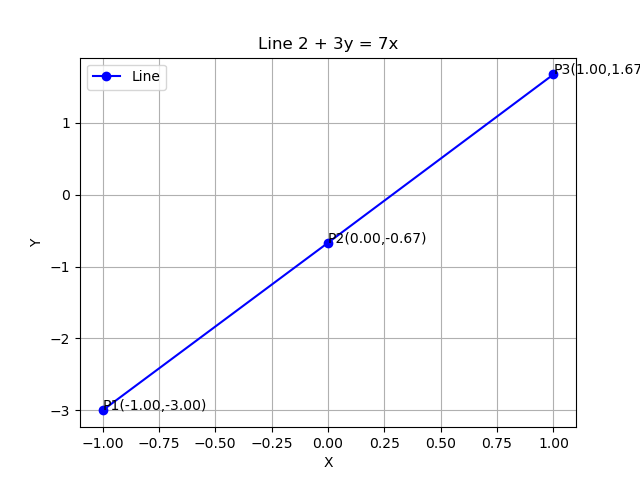
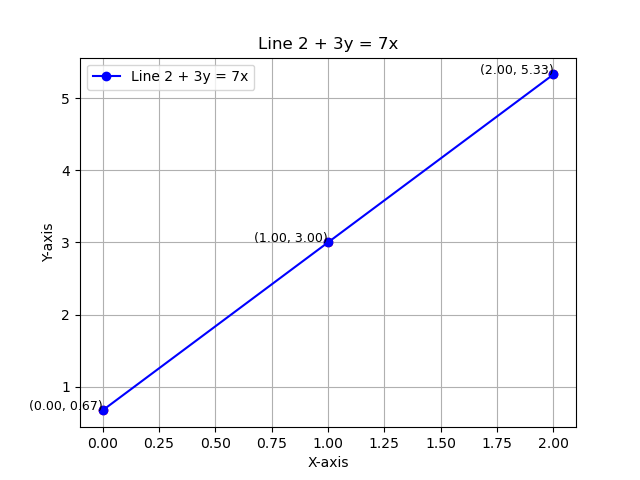
update

diff --git a/matgeo9/codes/main.c b/matgeo9/codes/main.c
@@ -1,62 +1,54 @@
 #include <stdio.h>
 
-// Function to find direction and normal vectors for the line
-void find_direction_and_normal_vector(double *direction, double *normal) {
-    // Line: 2 + 3y = 7x can be rearranged to 7x - 3y = -2
-    // General form: Ax + By + C = 0 -> A=7, B=-3
-    double A = 7;
-    double B = -3;
+// Function to generate three points lying on the line
+void generate_points(float slope, float intercept, FILE *file) {
+    float x_values[3] = {0, 1, 2}; // Three arbitrary x-values
+    float y_values[3];
     
-    // Direction vector (dx, dy) is perpendicular to the normal vector (A, B)
-    direction[0] = B;    // dx = -B
-    direction[1] = -A;   // dy = A
-    
-    // Normal vector (nx, ny) is (A, B)
-    normal[0] = A;
-    normal[1] = B;
+    for (int i = 0; i < 3; i++) {
+        y_values[i] = slope * x_values[i] + intercept; // Calculate corresponding y-values
+        fprintf(file, "%.2f, %.2f\n", x_values[i], y_values[i]);
+    }
 }
 
 int main() {
-    double direction[2], normal[2];
-    double points[3][2];
+    // The given equation is 2 + 3y = 7x
+    // Rearrange the equation to match the form Ax + By = C
+
+    // Coefficients A, B, and C for the line 7x - 3y = -2
+    float A = 7.0;
+    float B = -3.0;
+    float C = -2.0;
+
+    // Calculate slope and y-intercept based on A, B, C
+    float slope = -A / B; // Slope is -A/B
+    float intercept = C / B; // Y-intercept is C/B
     
-    // Rearranging the line equation to slope-intercept form: y = (7/3)x - (2/3)
-    double slope = 7.0 / 3.0;
-    double intercept = -2.0 / 3.0;
+    // Find direction vector (since slope is rise/run, direction vector is (run, rise))
+    float direction_vector[2] = {1, slope}; // For slope, direction vector can be (1, slope)
     
-    // Find direction and normal vectors
-    find_direction_and_normal_vector(direction, normal);
+    // Find normal vector (perpendicular to the direction vector)
+    float normal_vector[2] = {-slope, 1}; // Normal to (1, slope) is (-slope, 1)
     
-    // Print the direction and normal vectors
-    printf("Direction Vector: (%.2f, %.2f)\n", direction[0], direction[1]);
-    printf("Normal Vector: (%.2f, %.2f)\n", normal[0], normal[1]);
-    
-    // Generate 3 points using x values (-1, 0, 1) and y = slope * x + intercept
-    for (int i = 0; i < 3; i++) {
-        points[i][0] = i - 1;  // x values: -1, 0, 1
-        points[i][1] = slope * points[i][0] + intercept;  // y = mx + b
-    }
-    
-    // Save the points to coordinates.txt
+    // Display the vectors
+    printf("Direction Vector: (%.2f, %.2f)\n", direction_vector[0], direction_vector[1]);
+    printf("Normal Vector: (%.2f, %.2f)\n", normal_vector[0], normal_vector[1]);
+
+    // Open the file to save coordinates
     FILE *file = fopen("coordinates.txt", "w");
-    
-    // Check if the file is opened successfully
     if (file == NULL) {
-        perror("Error opening file");
+        printf("Error opening file!\n");
         return 1;
-    } else {
-        printf("File 'coordinates.txt' opened successfully.\n");
     }
     
-    // Print and write the points to the file
-    for (int i = 0; i < 3; i++) {
-        printf("Point %d: (%.2f, %.2f)\n", i + 1, points[i][0], points[i][1]);
-        fprintf(file, "Point %d: (%.2f, %.2f)\n", i + 1, points[i][0], points[i][1]);
-    }
-
+    // Generate and save three points on the line (only points are saved to the file)
+    generate_points(slope, intercept, file);
+    
+    // Close the file
     fclose(file);
-    printf("Points saved to 'coordinates.txt' successfully.\n");
-
+    
+    printf("Coordinates saved to coordinates.txt\n");
+    
     return 0;
 }
 

diff --git a/matgeo9/codes/vector.py b/matgeo9/codes/vector.py
@@ -1,0 +1,63 @@
+from ctypes import*
+import matplotlib.pyplot as plt
+
+# Load the shared object file (verify.so)
+verify = CDLL('./verify.so')
+
+# Define the argument types and return type for the `are_perpendicular` function
+verify.are_perpendicular.argtypes = (POINTER(c_float), POINTER(c_float), c_int)
+verify.are_perpendicular.restype = c_int
+
+# Input the line equation
+line_equation = "2 + 3y = 7x"
+
+# Extract coefficients from the line equation (2 + 3y = 7x -> 7x - 3y = -2)
+A = 7  # Coefficient of x
+B = -3  # Coefficient of y
+C = -2  # Constant
+
+# Direction vector is along the line
+direction_vector = [1, - A / B]  # Using slope (-A/B)
+
+# Normal vector is perpendicular to the line (A, B)
+normal_vector = [A / B, 1]
+
+# Convert Python lists to C-style arrays
+n = len(direction_vector)
+direction_vector_c = (c_float * n)(*direction_vector)
+normal_vector_c = (c_float * n)(*normal_vector)
+
+# Call the C function to check perpendicularity
+result = verify.are_perpendicular(direction_vector_c, normal_vector_c, n)
+
+if result == 1:
+    print("The direction vector and normal vector are perpendicular.")
+else:
+    print("The direction vector and normal vector are not perpendicular.")
+
+# Read points from coordinates.txt
+points = []
+with open("coordinates.txt", "r") as file:
+    for line in file:
+        x, y = map(float, line.strip().split(", "))
+        points.append((x, y))
+
+# Unpack the points for plotting
+x_coords, y_coords = zip(*points)
+
+# Plot the line using points from coordinates.txt
+plt.plot(x_coords, y_coords, 'bo-', label="Line 2 + 3y = 7x")  # Blue line with markers for points
+plt.scatter(x_coords, y_coords, color='red')  # Red dots at the points
+for i, (x, y) in enumerate(points):
+    plt.text(x, y, f"({x:.2f}, {y:.2f})", fontsize=9, ha='right')
+
+# Label the plot
+plt.title("Line 2 + 3y = 7x")
+plt.xlabel("X-axis")
+plt.ylabel("Y-axis")
+plt.grid(True)
+plt.legend()
+
+# Show the plot
+plt.show()
+

diff --git a/matgeo9/codes/verify.c b/matgeo9/codes/verify.c
@@ -1,14 +1,21 @@
-#include <stdio.h>
+// Function to calculate the dot product of two vectors
+float dot_product(float vec1[], float vec2[], int n) {
+    float dot = 0.0;
+    for (int i = 0; i < n; i++) {
+        dot += vec1[i] * vec2[i];
+    }
+    return dot;
+}
 
-int verify_perpendicular(double direction[2], double normal[2]) {
-    // Dot product of two vectors: direction • normal = dx * nx + dy * ny
-    double dot_product = direction[0] * normal[0] + direction[1] * normal[1];
+// Function to verify if two vectors are perpendicular
+int are_perpendicular(float vec1[], float vec2[], int n) {
+    float dot = dot_product(vec1, vec2, n);
     
-    // If the dot product is zero, the vectors are perpendicular
-    if (dot_product == 0) {
-        return 1;  // Perpendicular
+    // If dot product is approximately zero, the vectors are perpendicular
+    if (dot == 0.0) {
+        return 1; // Vectors are perpendicular
     } else {
-        return 0;  // Not perpendicular
+        return 0; // Vectors are not perpendicular
     }
 }
 
